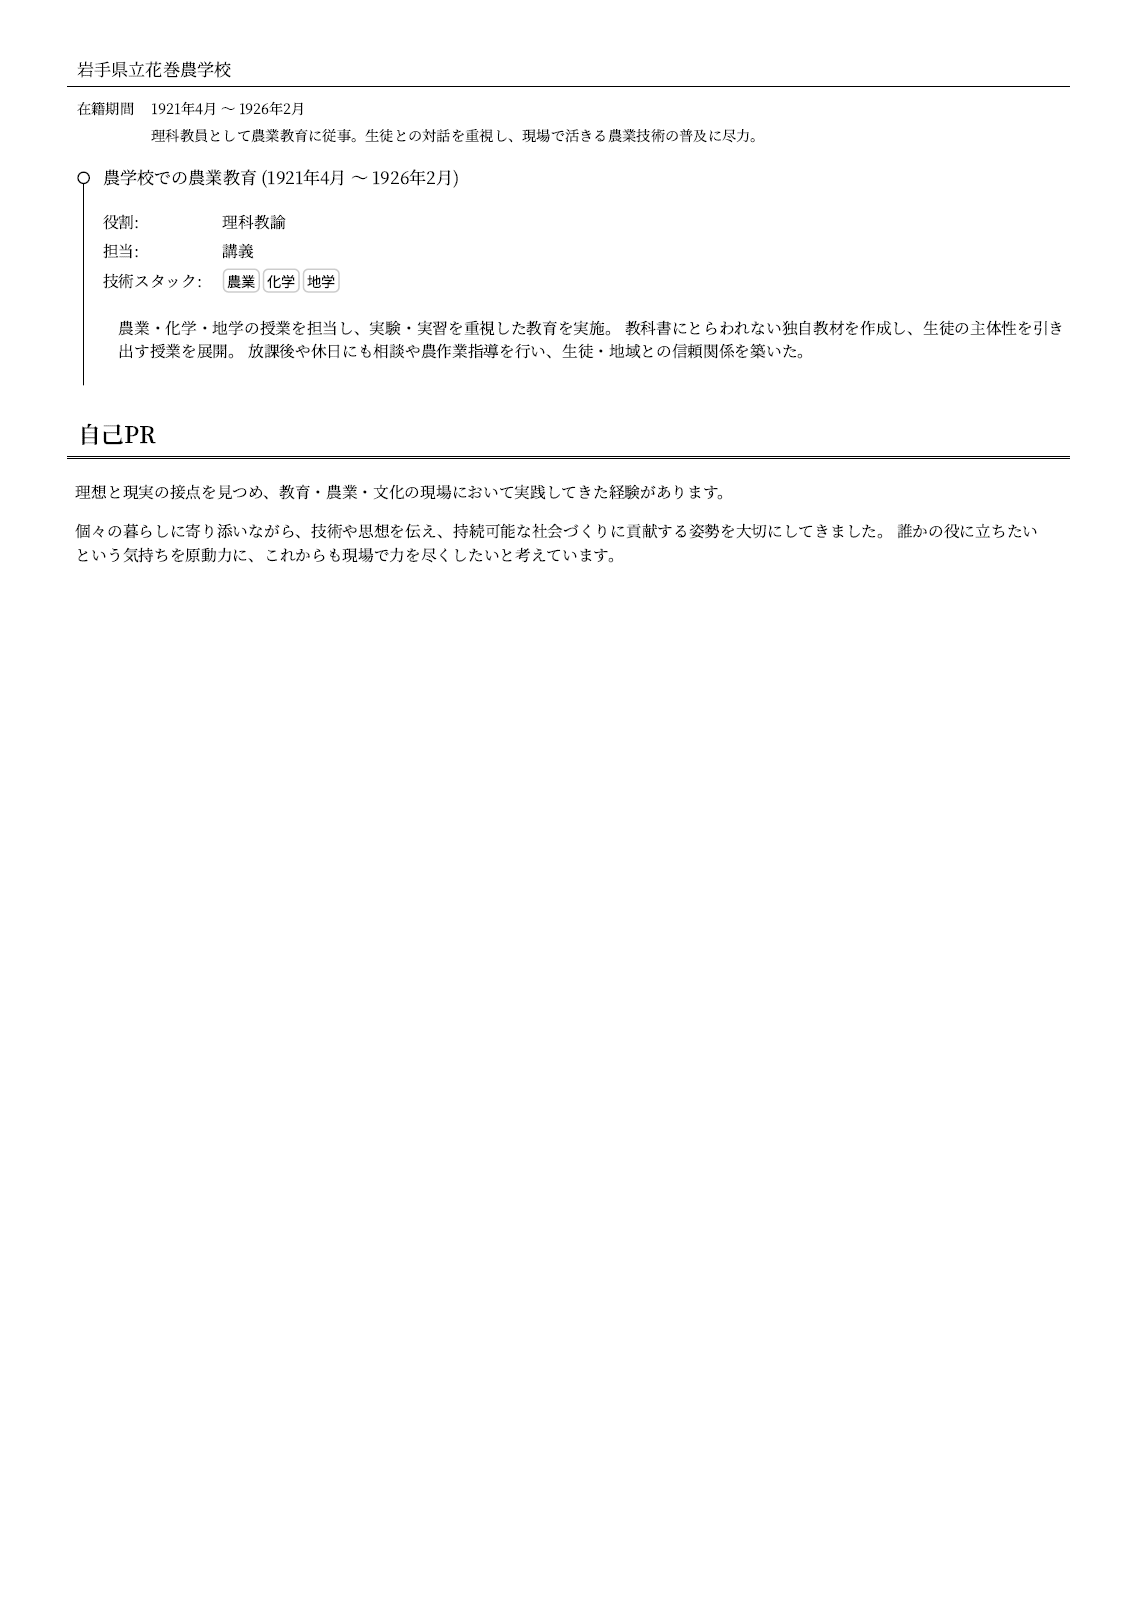
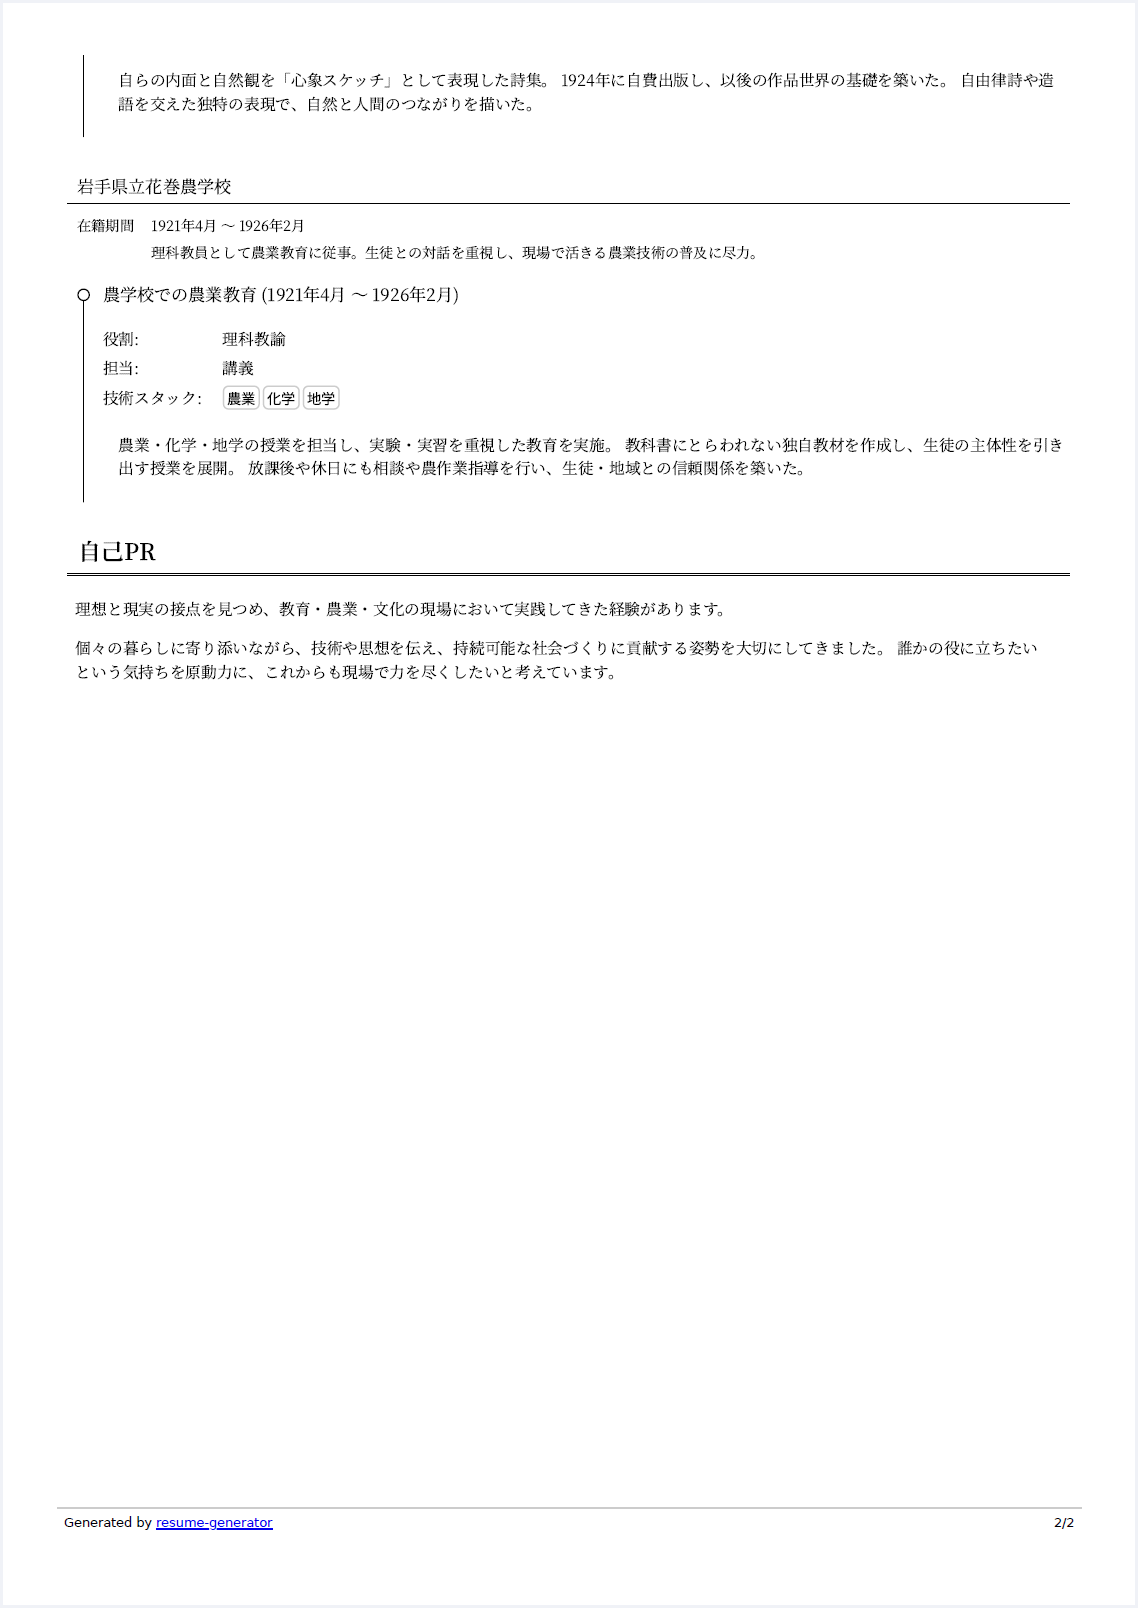
Update README.md

diff --git a/README.md b/README.md
@@ -41,7 +41,14 @@ RESUME_DEBUG=1 npm run build
 Options
 ----------------------------------------------------------------------------------------------------
 
-Some settings can be customised via environment variables or `config.js` file.
+Some settings can be customised via `config.js` file.
+
+When removing the text "Generated by resume-generator",
+edit the `footerTemplate` in `config.js`.
+
+```
+<span>Generated by </span><a href="https://github.com/yo1000/resume-generator">resume-generator</a>
+```
 
 
 Examples
